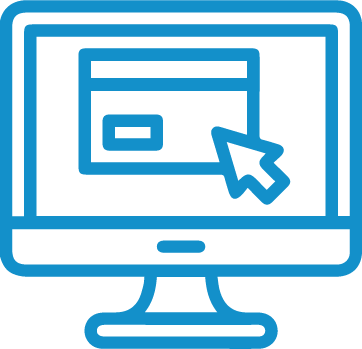
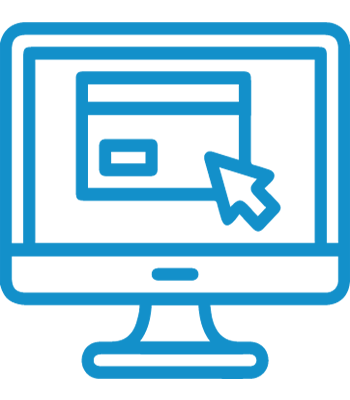
update272

diff --git a/index.html b/index.html
@@ -256,7 +256,7 @@
                                 <a href="./dichvu/inan/inan.html">
                                     <div class="services__item-service">
                                         <div class="services__item-img">
-                                            <img src="./assets/imgs/service/8.png" alt="">
+                                            <img src="./assets/imgs/service/13.png" alt="">
                                         </div>
                                         <h4 class="text-center">In ấn</h4>
                                         <p class="text-center">Cập nhật tình hình kinh doanh quán từ thiết bị của bạn</p>
@@ -1004,7 +1004,8 @@
                             <div class="contact__name">Công ty Design24</div>
                             <div class="contact__list">
                                 <p>TP.HCM: 302A Nguyễn Thượng Hiền, Phường 5, Quận Phú Nhuận</p>
-                                <p>Cần Thơ: 661F/29, KV. Bình Yên A, P. Long Hòa, Q. Bình Thủy, TP. Cần Thơ.</p>
+                                <p>Cần Thơ &middot; 1: 661F/29, KV. Bình Yên A, P. Long Hòa, Q. Bình Thủy, TP. Cần Thơ.</p>
+                                <p>Cần Thơ &middot; 2: số 19, đường số 13, KDC 91B, P. An Khánh, Q. Ninh Kiều, TP. Cần Thơ.</p>
                                 <p>Số ĐT: 0704.888.009 - 0784.888.009</p>
                                 <p>Email: Design24.vn@gmail.com</p>
                                 <p>Mã số thuế: 1801722168</p>
